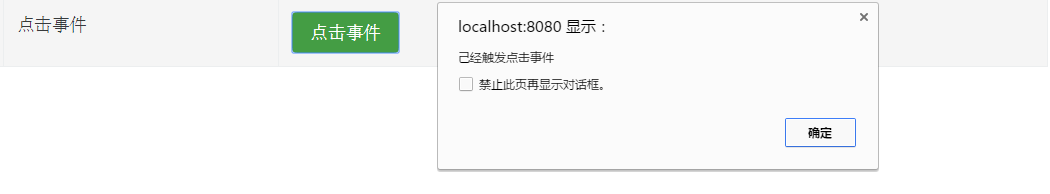
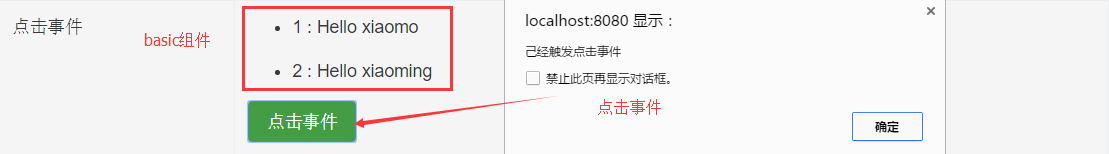
多组件

diff --git a/src/ts/component/clickEvent/ClickEvent.ts b/src/ts/component/clickEvent/ClickEvent.ts
@@ -1,9 +1,11 @@
 import {Component} from '@angular/core';
+import {BasicComponent} from './../basic/Basic';
 
 @Component({
     selector:'click-event',
     styles:[require('./ClickEvent.scss')],
-    template: require('./ClickEvent.html')
+    template: require('./ClickEvent.html'),
+    directives:[BasicComponent]
 })
 
 export class ClickEventComponent{

diff --git a/src/ts/component/clickEvent/ClickEvent.html b/src/ts/component/clickEvent/ClickEvent.html
@@ -1,3 +1,4 @@
 <div>
+    <basic></basic>
     <button class="btn btn-success" (click)="showMsg()">点击事件</button>
 </div>
